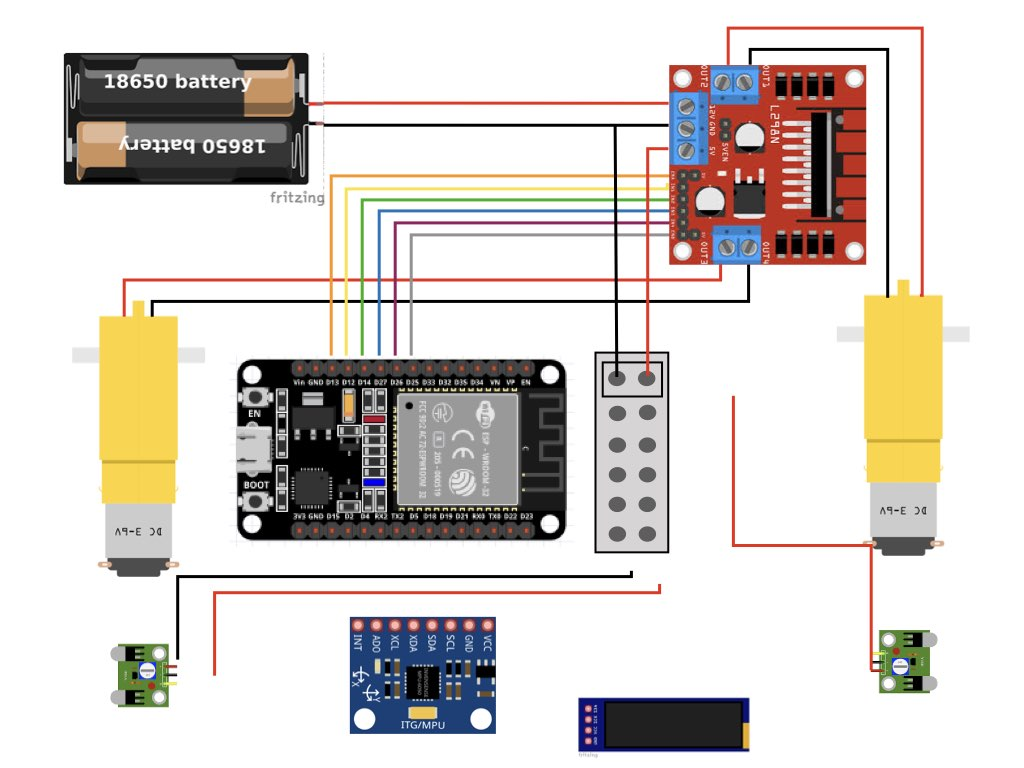
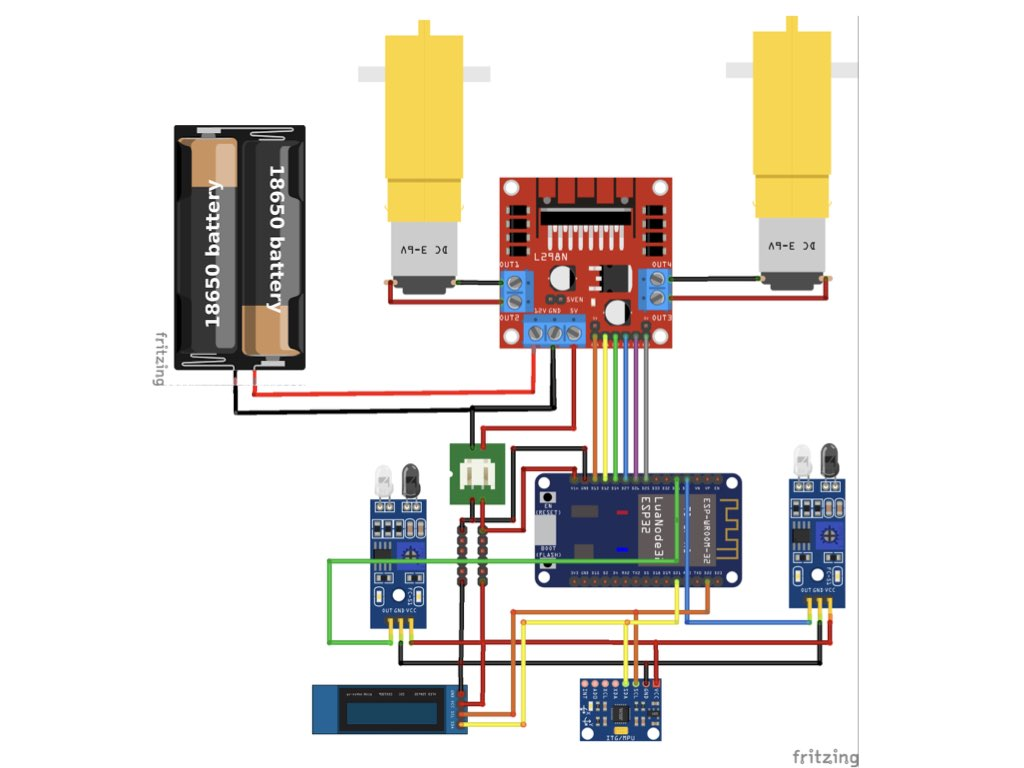
Added wiring diagram

diff --git a/Tools/ide.md b/Tools/ide.md
@@ -9,16 +9,20 @@ Once you have the PlatformIO plugin installed the FRCRobot code can be cloned fr
 - Finally, click the button to open the project in VSCode.
 
 ## Connecting the Robot to your WiFi
-Under the `include` directory of the project you will find a file called <i>connectWiFi</i>.h.  Open this file and locate the following lines:
+Follow these steps to connect the robot to your home WiFi:
 
-`// inline const char* ssid = "SSID";`
+1. Create a file under the `include` directory called `wifiConfig.h`.
+2. Paste the following two lines into the file.
 
-`// inline const char* password = "PASSWORD";`
+        inline const char* ssid = "SSID";
+        inline const char* password = "PASSWORD";
 
-Uncomment these lines and add your WiFi SSID and password.  When you start the robot your WiFi router will assign it an IP address which will be displayed on the OLED display.  You will need this address to open the web page used as the controller. 
+3. Add your WiFi SSID and password in place of SSID and PASSWORD.
 
 ## Compile and Upload Code to the ESP32
 Connect a UBS cable from your computer to the ESP32.  Click the upload `->` link in the status bar at the bottom of VSCode to compile and upload. If the upload fails to start you may have to press the <i>BOOT</i> button on the ESP32 microcontroller until the upload starts.
+
+After the upload completes your WiFi router will assign the robot an IP address which will be displayed on the OLED display.  You will need this address to open the web page used as the controller. 
 
 ![Task Bar](../images/FRCRobot/FRCRobot.009.jpeg)
 

diff --git a/Tools/code1.md b/Tools/code1.md
@@ -8,7 +8,7 @@ The main program creates a <i>Robot</i> class that is composed of a <i>DriveTrai
 ![Robot Model](../images/FRCRobot/FRCRobot.001.jpeg)
 
 ## Robot Controller
-In order to control the training robot we get the ESP32 microcontroller to display a WebSite on it's IP address. This is done in the <i>Controller</i> class.  For the first lesson we just display some buttons to move the robot in each direction for either 1, 2, or 3 seconds. The <i>Controller</i> class schedules the new command.
+In order to control the training robot we get the ESP32 microcontroller to display a WebSite on it's IP address. This is done in the <i>Controller</i> class.  For the first lesson we just display some buttons to move the robot in each direction for either 1, 2, or 3 seconds. The <i>Controller</i> class schedules the new command.  
 
 ![Robot Controller](../images/FRCRobot/FRCRobot.003.jpeg)
 

diff --git a/Languages/Intro/classes.md b/Languages/Intro/classes.md
@@ -1,6 +1,13 @@
 ## Classes
 A class is a representation of an object, idea, or concept in the real world.  A class is just another type such as the programming language types integer and float. For example, a float is an approximation of the mathematical concept of a real number.  
 
+- A class is a user defined data type.
+- Consists of data members and member functions.
+- A class is a namespace.
+- Public members provide a interface.
+- Private members provide implementation details.
+- The contructor is used to initialize objects and has the same name as the class.
+
 Examples of classes:
 
 ![Classes](../../images/FRCRobot/FRCRobot.017.jpeg)

diff --git a/Tools/build.md b/Tools/build.md
@@ -3,8 +3,10 @@ Picture of the prototype...
 
 ![Robot photo](../images/FRCRobot/FRCRobot.013.jpeg)
 
+## Wiring Diagram
+
+![Robot photo](../images/FRCRobot/FRCRobot.016.jpeg)
+
 
 <h3><span style="float:left">
 <a href="bom">Previous</a></span>
-<span style="float:right">
-<a href="code">Next</a></span></h3>
